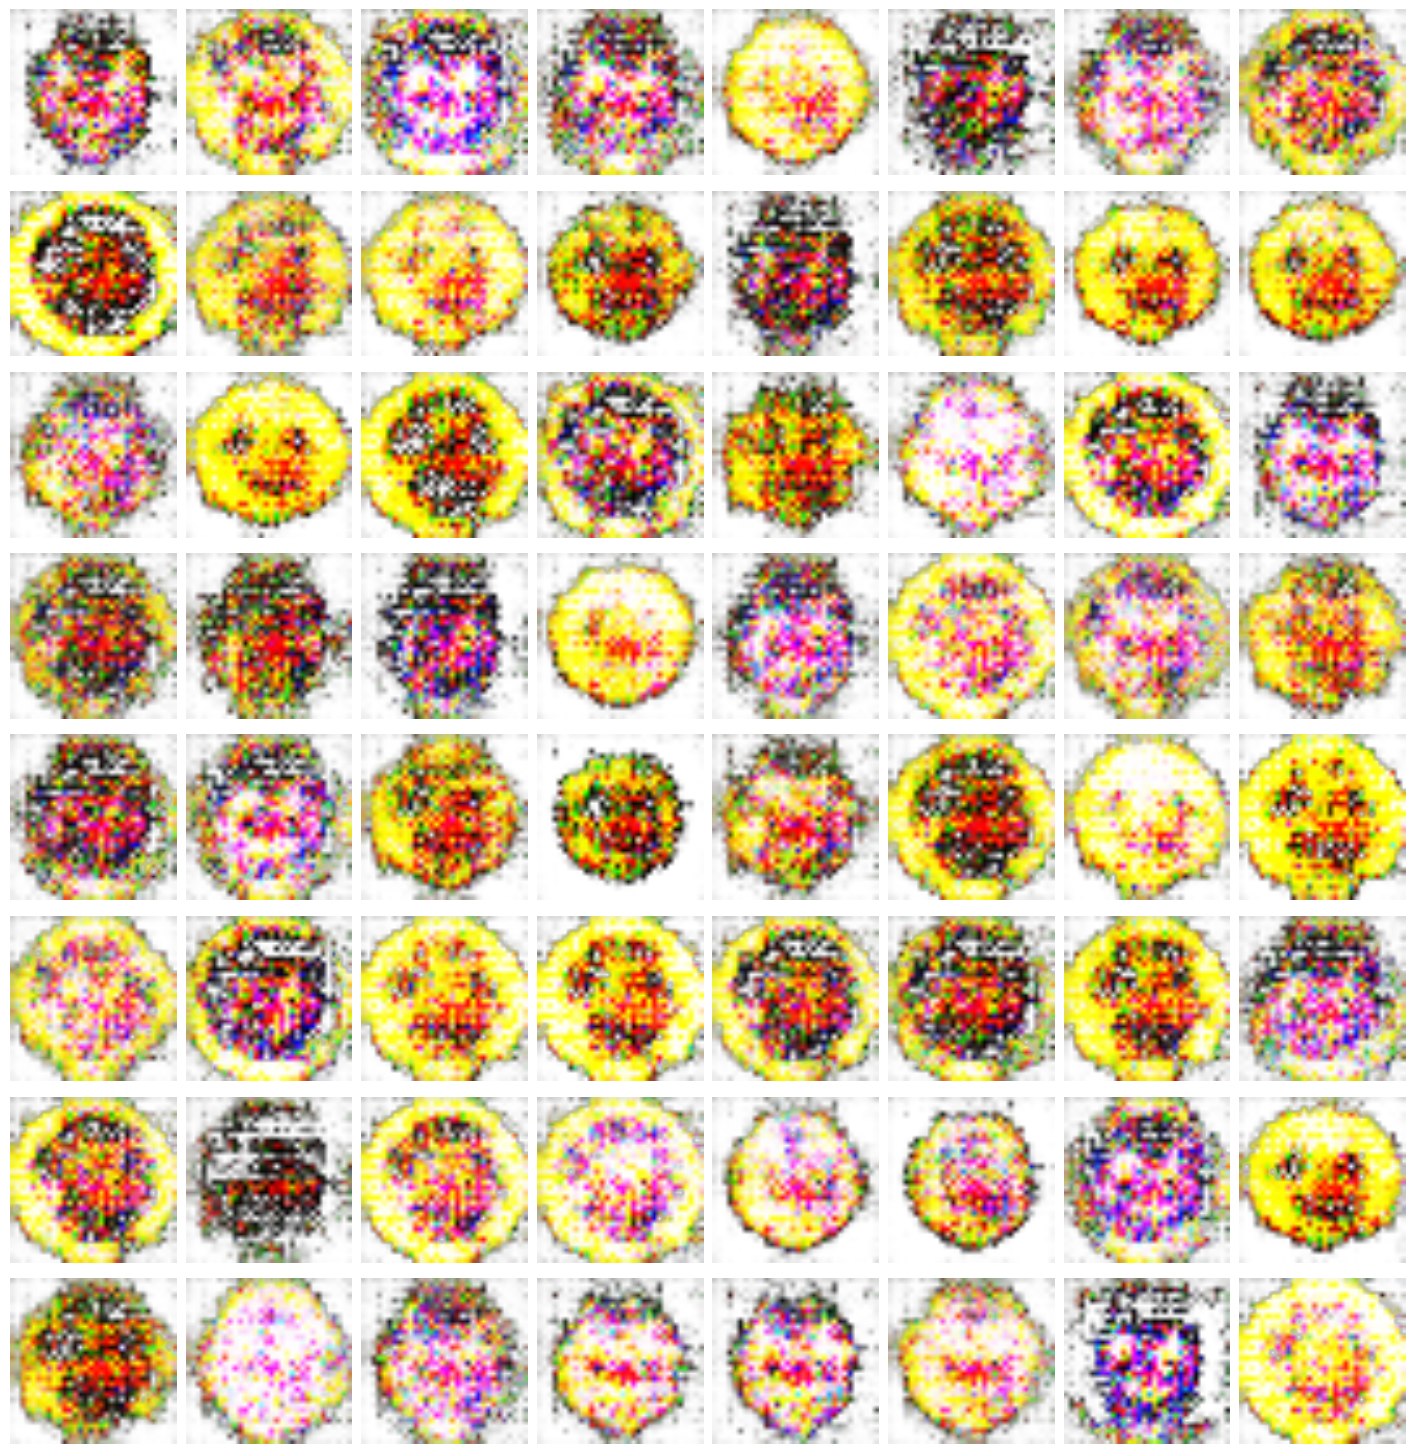
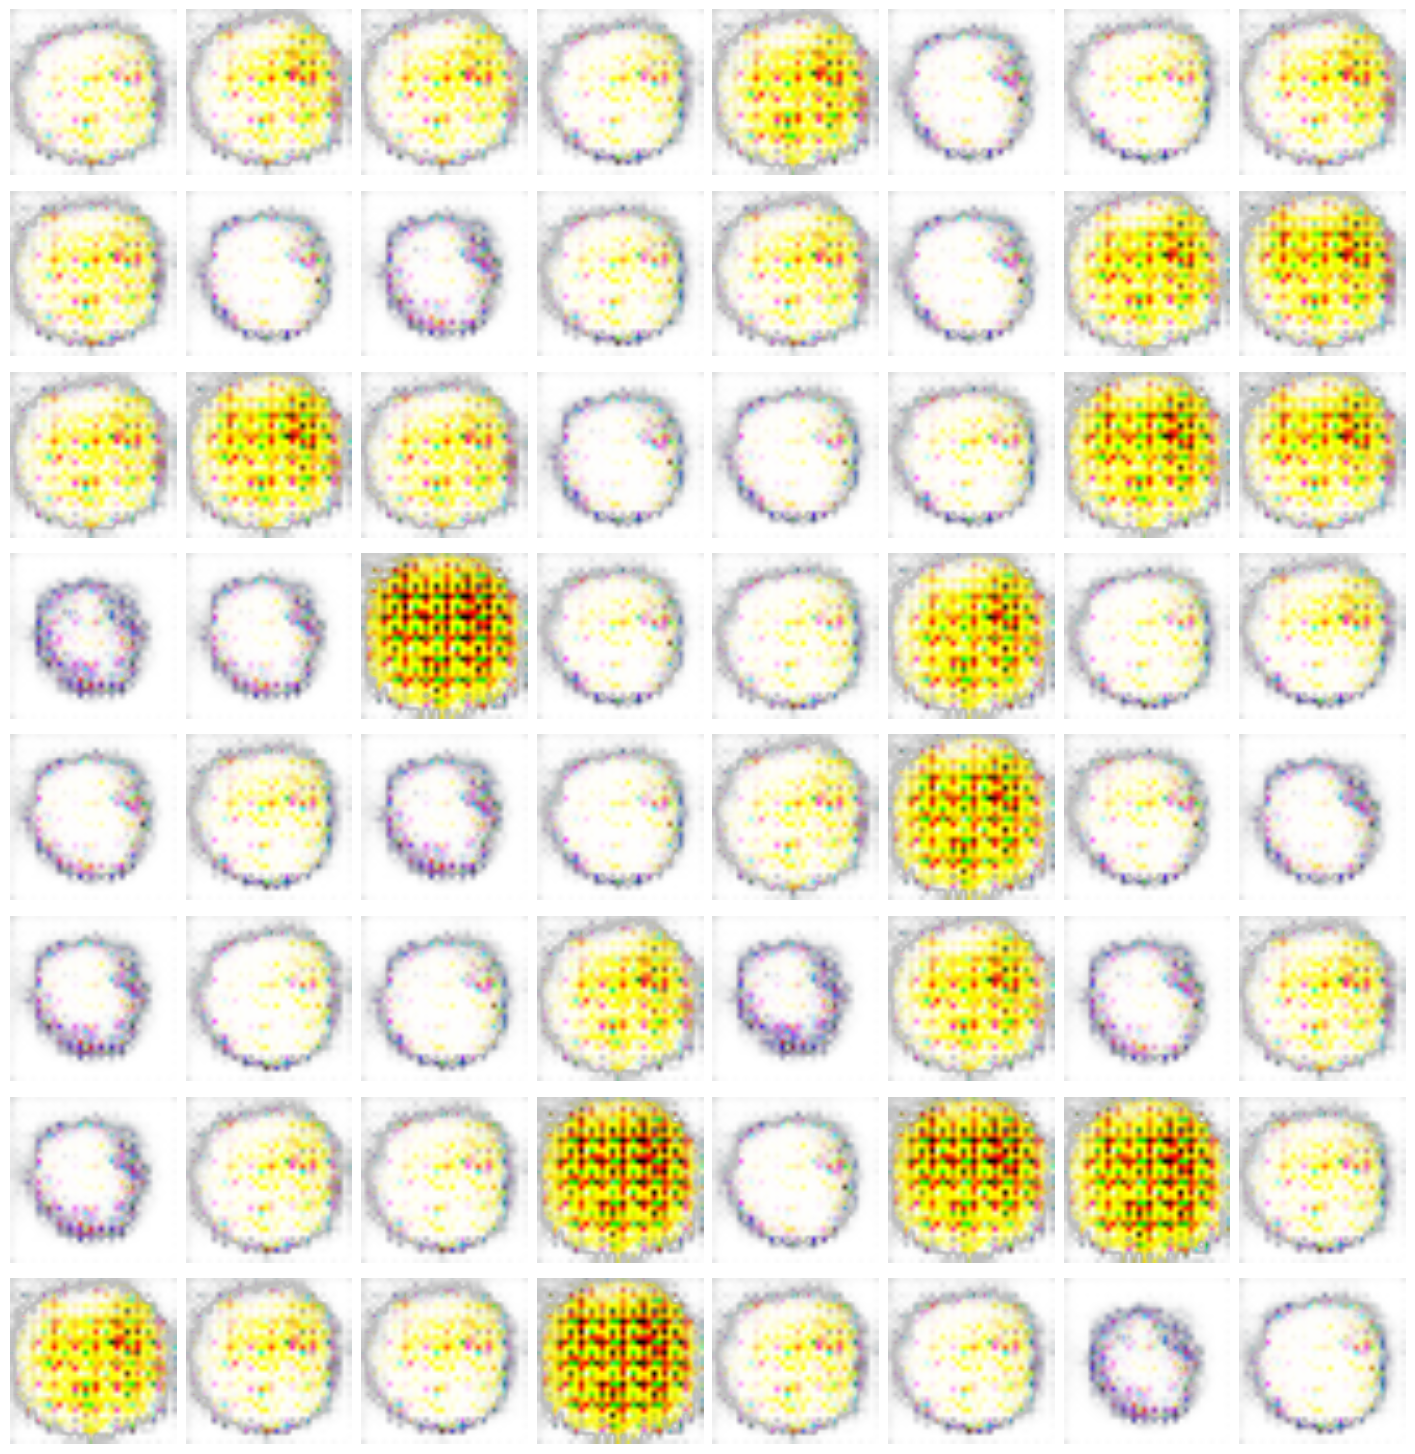
Add saver

diff --git a/main.py b/main.py
@@ -12,12 +12,19 @@ from PIL import Image
 import scipy.misc
 import commands
 import time
+import os
 
-ITERATIONS = 10
+ITERATIONS = 100
 BATCH_SIZE = 64
-EPOCHS = 100000
+EPOCHS = 1000
 IMAGE_SIZE = 32*32*4
+STEPS_PER_SUMMARY = 5
+STEPS_PER_IMAGE_SAMPLE = 10
+STEPS_PER_SAVE = 100
 
+MODEL_NAME = "DCGAN.model"
+MODEL_DIR = "./models"
+CHECKPOINT_DIR = "checkpoint"
 image_filenames = []
 
 def get_image_filenames():
@@ -63,18 +70,10 @@ def get_next_image_batch(batch_size):
 def denormalize_image(image):
 	return np.multiply(np.divide((1 + image), 2), 255)
 
-def plot(samples, D_loss, G_loss, epoch, total):
+def save_samples(samples, image_num):
 	fig = plt.figure(figsize=(18, 18))
 	gs = gridspec.GridSpec(8, 8)
 	gs.update(wspace=0.06, hspace=0.06)
-	
-	# Plot losses in last 4 columns
-	ax = plt.subplot(gs[:, 4:])
-	ax.plot(D_loss, label="discriminator's loss", color='b')
-	ax.plot(G_loss, label="generator's loss", color='r')
-	ax.set_xlim([0, total])
-	ax.yaxis.tick_right()
-	ax.legend()
 
 	# Generate images
 	for i, sample in enumerate(samples):
@@ -87,8 +86,8 @@ def plot(samples, D_loss, G_loss, epoch, total):
 		ax.set_aspect('equal')
 		plt.imshow(sample.reshape(32, 32, 4).astype(np.uint8))
 
-	plt.savefig('./output/' + str(epoch + 1) + '.png', bbox_inches='tight')
-	print('./output/' + str(epoch + 1) + '.png')
+	plt.savefig('./output/' + str(image_num) + '.png', bbox_inches='tight')
+	print('New samples: ./output/' + str(image_num) + '.png')
 	plt.close()
 
 def variable_summaries(var):
@@ -175,14 +174,11 @@ def minibatch(inputs, num_kernels=32, kernel_dim=3):
 def Discriminator(X, instance_noise_std, reuse=False, name='d'):
 	# Architecture:
 	# 	Add noise
-	# 	Conv3x3
+	# 	Conv3x3, BN, ReLU
 	# 	Minibatch discrim computed (sent FC layer at the end)
-	# 	Conv3x3
-	# 	AvgPool
-	# 	Conv3x3
-	# 	Conv3x3
-	# 	AvgPool
-	# 	Then concat minibatch discrim with AvgPool output, each with separate dropout
+	# 	Conv3x3, BN, ReLU
+	# 	Conv3x3, BN, ReLU
+	# 	Conv3x3, BN, ReLU
 	# 	FC layer
 	# 	Sigmoid
 	with tf.variable_scope(name, reuse=reuse):
@@ -197,27 +193,26 @@ def Discriminator(X, instance_noise_std, reuse=False, name='d'):
 
 		D_conv1_reshaped = tf.reshape(D_conv1, [BATCH_SIZE, -1])
 		minibatch_features = minibatch(D_conv1_reshaped) # Saved for the end
-		D_h1 = LeakyReLU(D_conv1)
 
+		D_bn1 = BatchNormalization(D_conv1, name='conv_bn1')
+		D_h1 = LeakyReLU(D_bn1)
 		D_conv2 = Conv2d(D_h1, output_dim=64, kernel=(3,3), name='conv2')
-		D_h2 = LeakyReLU(D_conv2)
-
-		D_h2_pooled = tf.nn.avg_pool(D_h2, ksize=[1, 2, 2, 1], strides=[1, 2, 2, 1], padding='SAME')
-
-		D_conv3 = Conv2d(D_h2_pooled, output_dim=128, kernel=(3,3), name='conv3')
-		D_h3 = LeakyReLU(D_conv3)
+		D_bn2 = BatchNormalization(D_conv2, name='conv_bn2')
+		D_h2 = LeakyReLU(D_bn2)
+		D_conv3 = Conv2d(D_h2, output_dim=128, kernel=(3,3), name='conv3')
+		D_bn3 = BatchNormalization(D_conv3, name='conv_bn3')
+		D_h3 = LeakyReLU(D_bn3)
 		D_conv4 = Conv2d(D_h3, output_dim=256, kernel=(3,3), name='conv4')
-		D_h4 = LeakyReLU(D_conv4)
+		D_bn4 = BatchNormalization(D_conv4, name='conv_bn4')
+		D_h4 = LeakyReLU(D_bn4)
 
-		D_h4_pooled = tf.nn.avg_pool(D_h4, ksize=[1, 2, 2, 1], strides=[1, 2, 2, 1], padding='SAME')
-
-		D_r = tf.reshape(D_h4_pooled, [BATCH_SIZE, 256])
+		D_r = tf.reshape(D_h4, [BATCH_SIZE, 1024])
 
 		# Apply strong dropout on minibatch features because we care less about it compared to image features
-		minibatch_features_dropped_out = tf.nn.dropout(minibatch_features, 0.2)
+		minibatch_features_dropped_out = tf.nn.dropout(minibatch_features, 0.4)
 
 		# Only a bit of dropout for image features to prevent overfitting
-		D_r_dropped_out = tf.nn.dropout(D_r, 0.7)
+		D_r_dropped_out = tf.nn.dropout(D_r, 0.8)
 
 		D_5 = tf.concat([D_r_dropped_out, minibatch_features_dropped_out], 1)
 
@@ -237,19 +232,19 @@ def Generator(z, name='g'):
 		G_1 = Dense(z, output_dim=1024*4*4, name='dense')
 		G_r1 = tf.reshape(G_1, [BATCH_SIZE, 4, 4, 1024])
 		G_bn1 = BatchNormalization(G_r1, name='dense_bn')
-		G_h1 = LeakyReLU(G_bn1)
+		G_h1 = tf.nn.relu(G_bn1)
 		with tf.name_scope('dense_activation'):
 			variable_summaries(G_h1)
 
 		G_conv2 = Deconv2d(G_h1, output_dim=512, batch_size=BATCH_SIZE, name='deconv1')
 		G_bn2 = BatchNormalization(G_conv2, name='deconv1_bn')
-		G_h2 = LeakyReLU(G_bn2)
+		G_h2 = tf.nn.relu(G_bn2)
 		with tf.name_scope('deconv1_activation'):
 			variable_summaries(G_h2)
 
 		G_conv3 = Deconv2d(G_h2, output_dim=256, batch_size=BATCH_SIZE, name='deconv2')
 		G_bn3 = BatchNormalization(G_conv3, name='deconv2_bn')
-		G_h3 = LeakyReLU(G_bn3)
+		G_h3 = tf.nn.relu(G_bn3)
 		with tf.name_scope('deconv2_activation'):
 			variable_summaries(G_h3)
 
@@ -271,7 +266,7 @@ D_fake_prob, D_fake_logits, feature_matching_fake, minibatch_similarity_fake = D
 tf.summary.histogram("d_real_prob", D_real_prob)
 tf.summary.histogram("d_fake_prob", D_fake_prob)
 
-D_real = tf.reduce_mean(tf.nn.sigmoid_cross_entropy_with_logits(logits=D_real_logits, labels=(tf.ones_like(D_real_logits) * (0.9))), name="disc_real_cross_entropy") # one sided label smoothing
+D_real = tf.reduce_mean(tf.nn.sigmoid_cross_entropy_with_logits(logits=D_real_logits, labels=tf.ones_like(D_real_logits)), name="disc_real_cross_entropy")
 D_fake = tf.reduce_mean(tf.nn.sigmoid_cross_entropy_with_logits(logits=D_fake_logits, labels=tf.zeros_like(D_fake_logits)), name="disc_fake_cross_entropy")
 D_fake_wrong = tf.reduce_mean(tf.nn.sigmoid_cross_entropy_with_logits(logits=D_fake_logits, labels=tf.ones_like(D_fake_logits)), name="generator_wrong_fake_cross_entropy")
 
@@ -328,10 +323,43 @@ def get_instance_noise_std(iters_run):
 	# your images are with certain levels of noise. Here, I am starting off
 	# with INITIAL_NOISE_STD and decreasing uniformly, hitting zero at a threshold iteration.
 	INITIAL_NOISE_STD = 0.3
-	LAST_ITER_WITH_NOISE = 1000
+	LAST_ITER_WITH_NOISE = 300
 	if iters_run >= LAST_ITER_WITH_NOISE:
 		return 0.0
 	return INITIAL_NOISE_STD - ((INITIAL_NOISE_STD/LAST_ITER_WITH_NOISE) * iters_run)
+
+
+
+saver = tf.train.Saver()
+def save(checkpoint_dir, curr_step, sess):
+	global saver
+	print(" [*] Saving model at step: " + str(curr_step))
+	checkpoint_dir = os.path.join(checkpoint_dir, MODEL_DIR)
+
+	if not os.path.exists(checkpoint_dir):
+		os.makedirs(checkpoint_dir)
+
+	saver.save(sess,
+				os.path.join(checkpoint_dir, MODEL_NAME),
+				global_step=curr_step)
+	print(" [*] Successfully saved model")
+
+def load(checkpoint_dir, sess):
+	global saver
+	import re
+	print(" [*] Reading checkpoints...")
+	checkpoint_dir = os.path.join(CHECKPOINT_DIR, MODEL_DIR)
+
+	ckpt = tf.train.get_checkpoint_state(checkpoint_dir)
+	if ckpt and ckpt.model_checkpoint_path:
+		ckpt_name = os.path.basename(ckpt.model_checkpoint_path)
+		saver.restore(sess, os.path.join(checkpoint_dir, ckpt_name))
+		curr_step = int(next(re.finditer("(\d+)(?!.*\d)",ckpt_name)).group(0))
+		print(" [*] Successfully read {}".format(ckpt_name))
+		return True, curr_step
+	else:
+		print(" [*] Failed to find a checkpoint")
+	return False, 0
 
 with tf.Session() as sess:
 	merged = tf.summary.merge_all()
@@ -343,11 +371,19 @@ with tf.Session() as sess:
 	D_loss_vals = []
 	G_loss_vals = []
 
+	curr_step = 0
+	could_load, checkpoint_counter = load(CHECKPOINT_DIR, sess)
+	if could_load:
+		curr_step = checkpoint_counter
+		print(" [*] Load SUCCESS")
+	else:
+		print(" [!] Load failed...")
+
 	for e in range(EPOCHS):
 
-		for i in range(ITERATIONS):
+		for _ in range(ITERATIONS):
 
-			instance_noise_std_value = get_instance_noise_std(e*ITERATIONS + i)
+			instance_noise_std_value = get_instance_noise_std(curr_step)
 
 			x = get_next_image_batch(BATCH_SIZE)
 			x = normalize_image_batch(x)
@@ -359,13 +395,22 @@ with tf.Session() as sess:
 			_, G_loss_curr = sess.run([generator_optimizer, G_loss], feed_dict)
 			summary, _, G_loss_curr = sess.run([merged, generator_optimizer, G_loss], feed_dict)
 
-			train_writer.add_summary(summary, e*ITERATIONS + i + 1)
-
 			D_loss_vals.append(D_loss_curr)
 			G_loss_vals.append(G_loss_curr)
 
-			sys.stdout.write("\r%d / %d: %f, %f" % (i, ITERATIONS, D_loss_curr, G_loss_curr))
+			sys.stdout.write("\rstep %d: %f, %f" % (curr_step, D_loss_curr, G_loss_curr))
 			sys.stdout.flush()
 
-		data = sess.run(G, {z: rand})
-		plot(data, D_loss_vals, G_loss_vals, e, EPOCHS * ITERATIONS)
+			curr_step += 1
+
+			if curr_step > 0 and curr_step % STEPS_PER_IMAGE_SAMPLE == 0:
+				# Note that these samples have "pixels" in the range (-1,1)
+				generated_samples = sess.run(G, {z: rand})
+				save_samples(generated_samples, curr_step / STEPS_PER_IMAGE_SAMPLE)
+
+			if curr_step > 0 and curr_step % STEPS_PER_SAVE == 0:
+				save(CHECKPOINT_DIR, curr_step, sess)
+
+			if curr_step > 0 and curr_step % STEPS_PER_SUMMARY == 0:
+				train_writer.add_summary(summary, curr_step)
+
